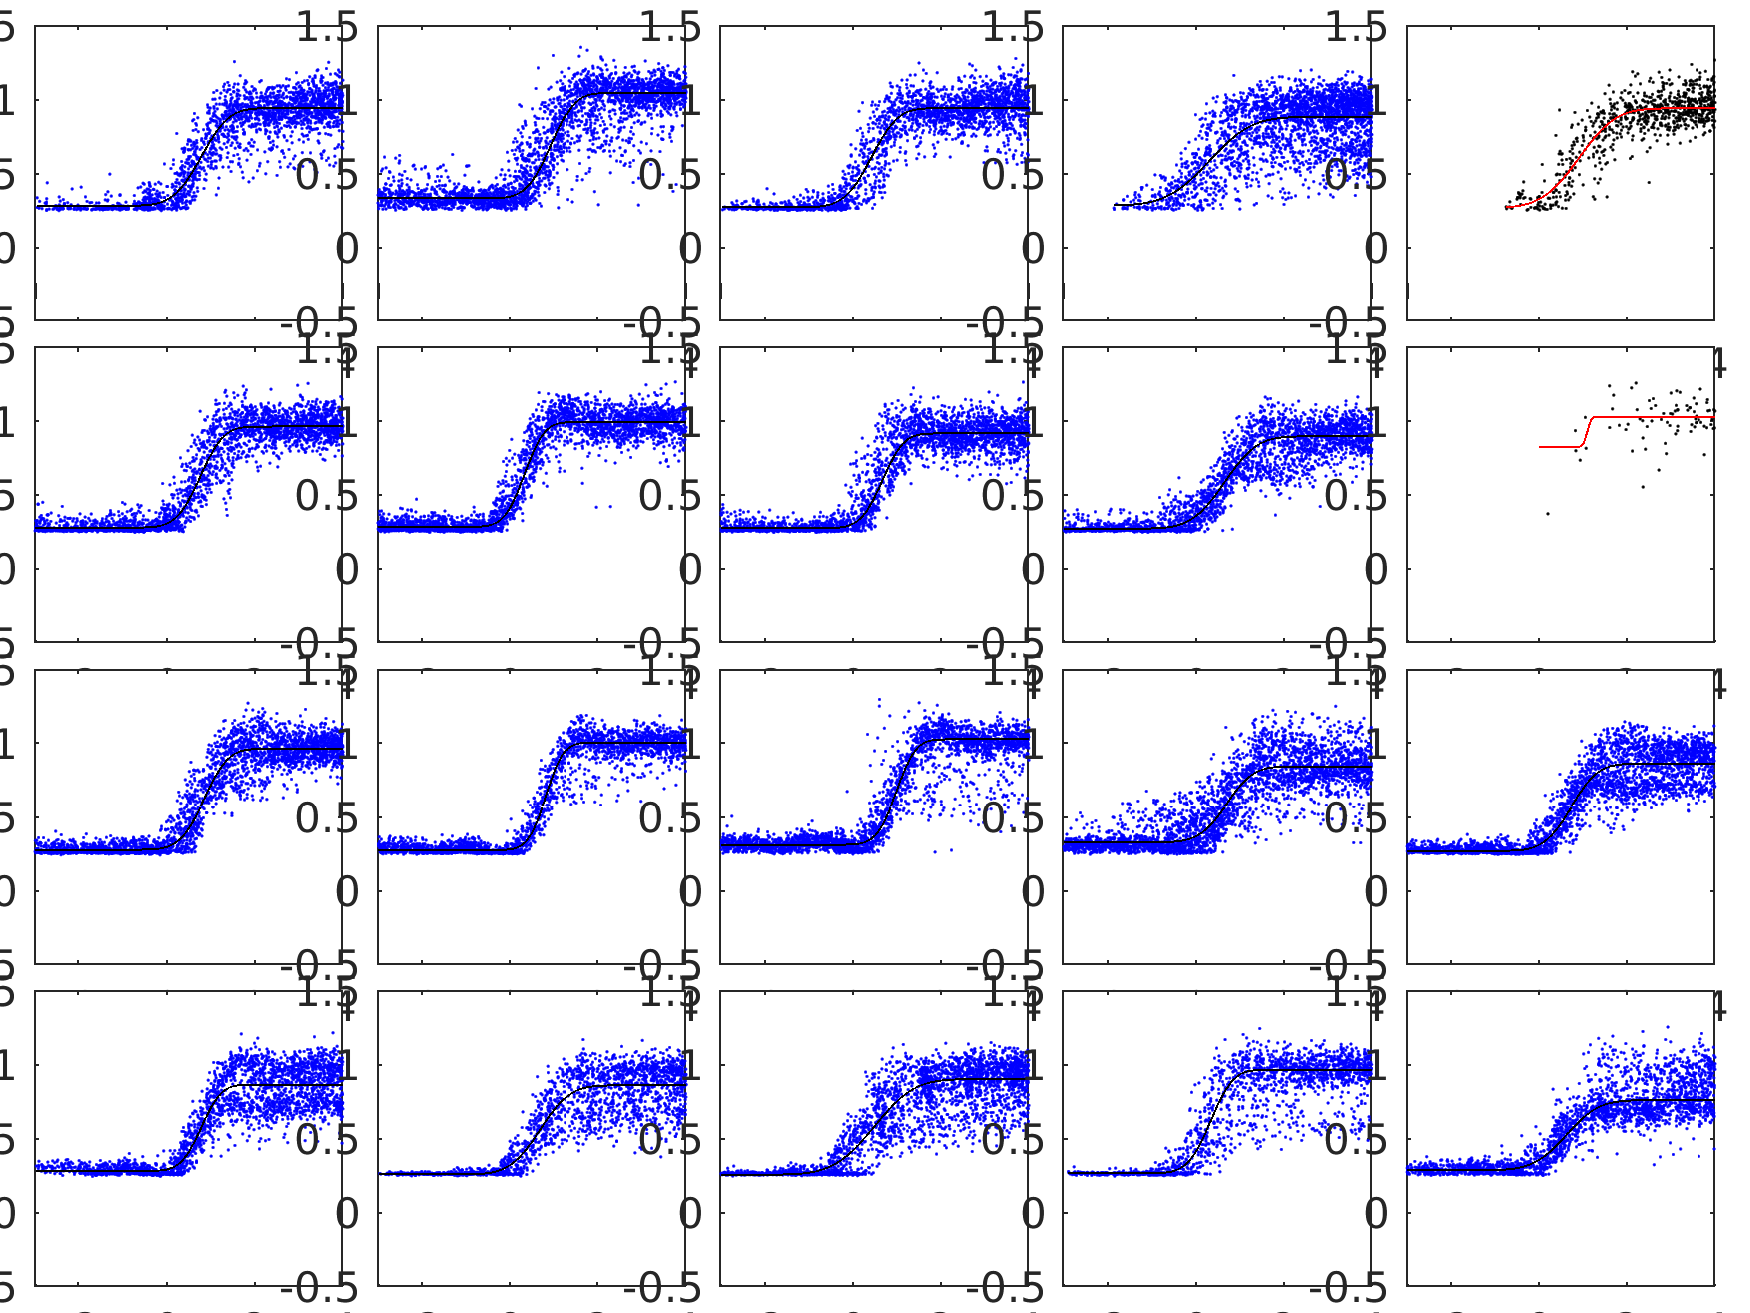
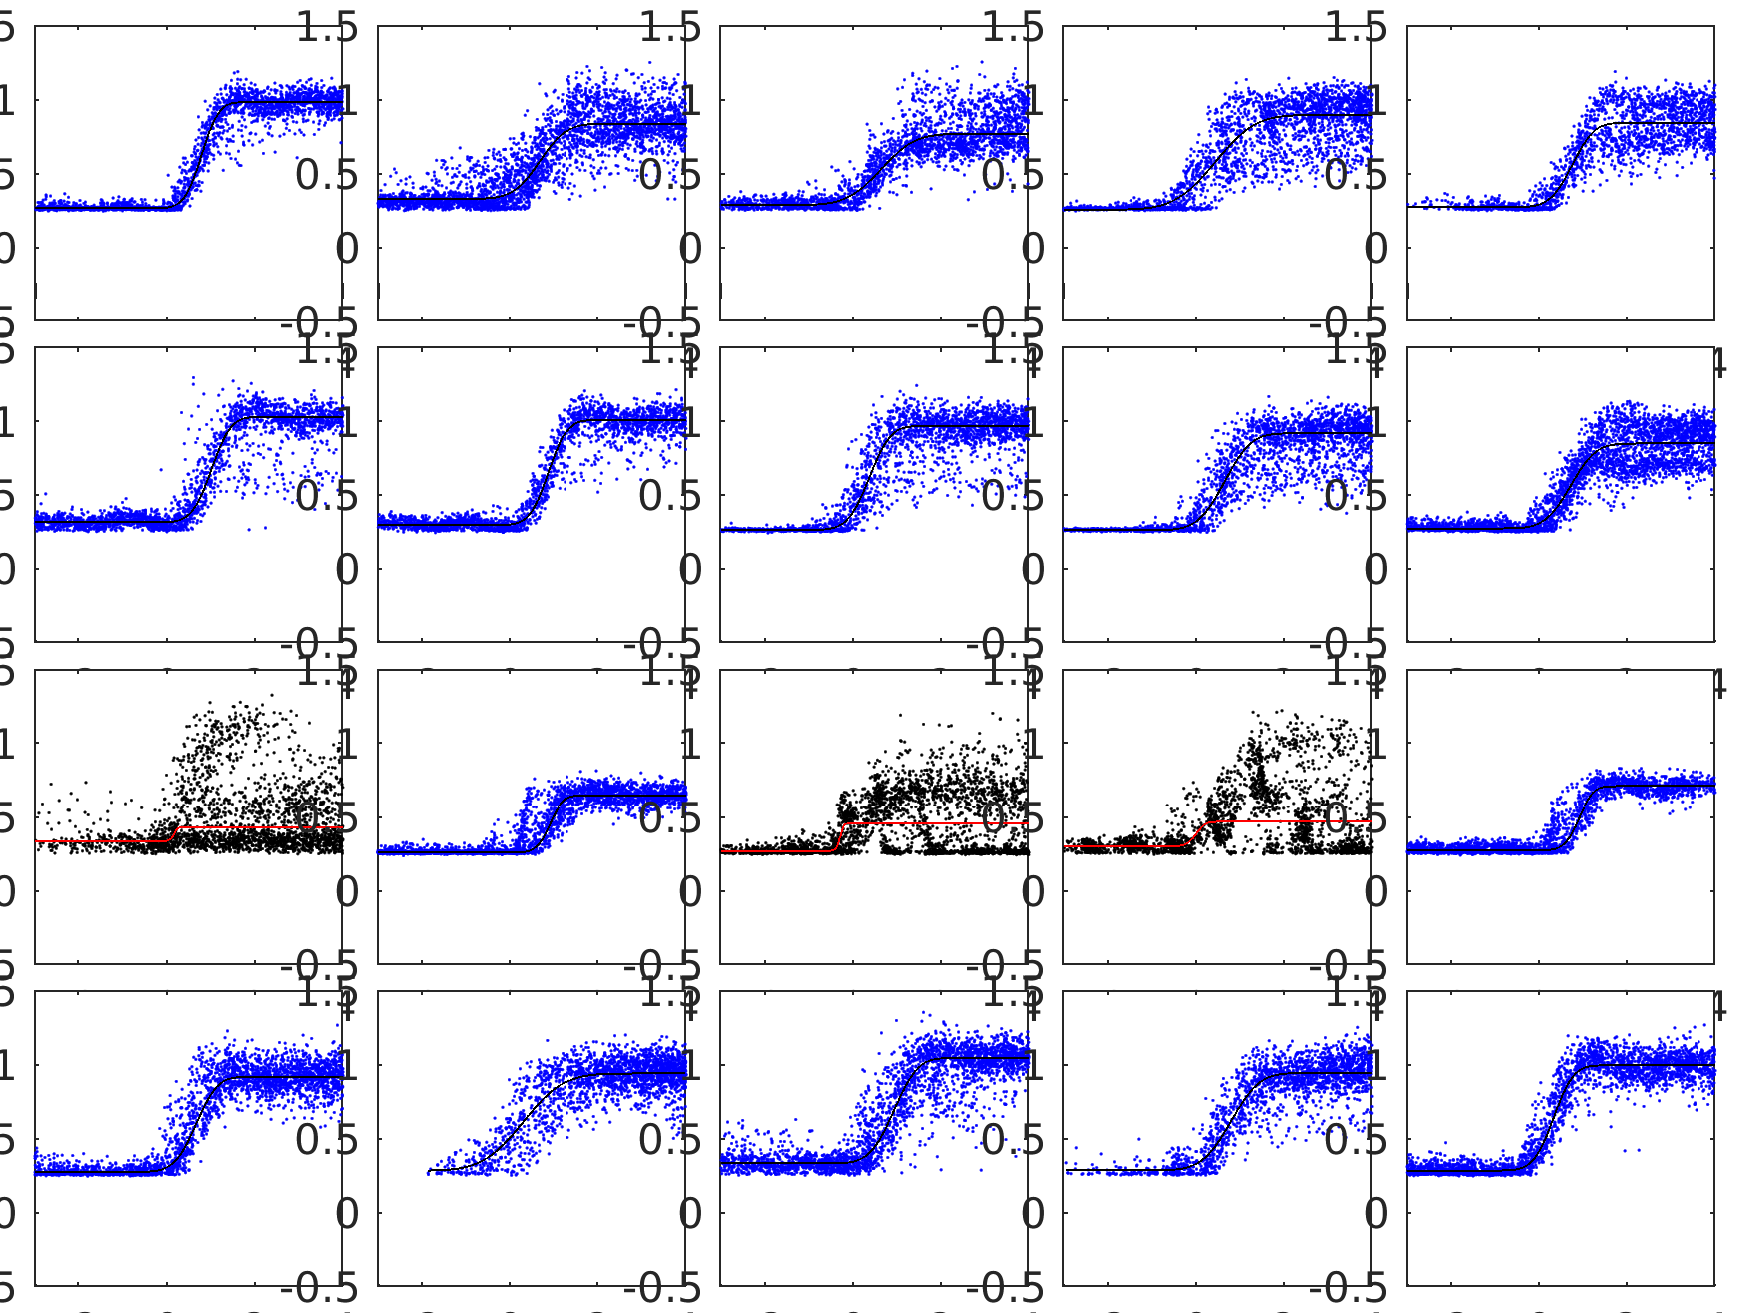
start with ROI outside of image bugfix

diff --git a/sharpness/mainSharpnessFatNav.m b/sharpness/mainSharpnessFatNav.m
@@ -78,9 +78,27 @@ for ii=subj_ii
   % do fitting
   [better_signed{ii},worse_signed{ii},brd_crds{ii},brd_ind{ii},AR{ii}] = ...
     getsigmaclusterFatNav(map_corr,data_corr,data_uncorr,pars,field_name,plotsavedir);
+    disp(size(better_signed(ii)))
+    if better_signed(ii) == 0
+        better_signed(ii) = [];
+        worse_signed(ii) = [];
+        brd_crds(ii) = [];
+        brd_ind(ii) = [];
+        AR(ii) = [];
+        continue
+    end
+disp('sigma fithgs')
+   disp( better_signed(ii))
+   disp(worse_signed(ii))
+   disp(brd_crds(ii)), 
+   disp(brd_ind(ii))
+   disp(AR(ii))
   % get motion parameters
   numcl(ii) = length(better_signed{ii});
   mot_mean{ii} = getmotionFatNav(map_corrall.(fields{ii}).img,brd_crds{ii},MPos.(fields{ii}),voxRes);
+  disp('motion params')
+  disp(numcl(ii))
+  disp(mot_mean(ii))
 end
 
 %% compute and print statistics

diff --git a/sharpness/code/getsigmaclusterFatNav.m b/sharpness/code/getsigmaclusterFatNav.m
@@ -59,7 +59,16 @@ coords_R3 = cat(2, x_R3, y_R3, z_R3)./scale_c;
 disp('kmeans size')
 disp(size(cat(2,coords_R3,I_R3_sm)))
 kar = cat(2,coords_R3,I_R3_sm);
-sum(any(~isnan(kar), 1))
+if sum(any(~isnan(kar), 1)) < 4
+    disp('Too many NaN values --> ROI lies outside of reconstructed image.')
+    better_signed = 0;
+    worse_signed = 0;
+    brd_crds = 0;
+    brd_ind = 0;
+    AddRes = 0;
+    return
+end
+
 % First kmeans-clustering: on intensity value
 ind_R3 = kmeans(cat(2,coords_R3,I_R3_sm),k_R3, 'MaxIter', 1000, 'Replicates', 10);
 ind_R3subcl = ind_R3; % used for subclustering. 
